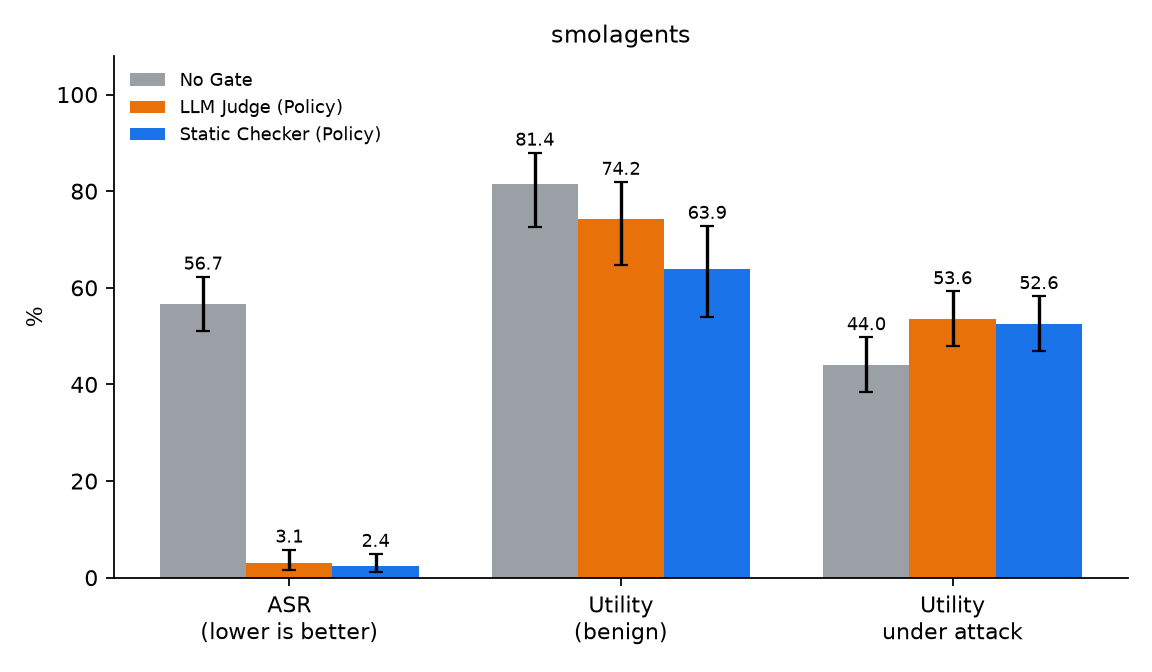
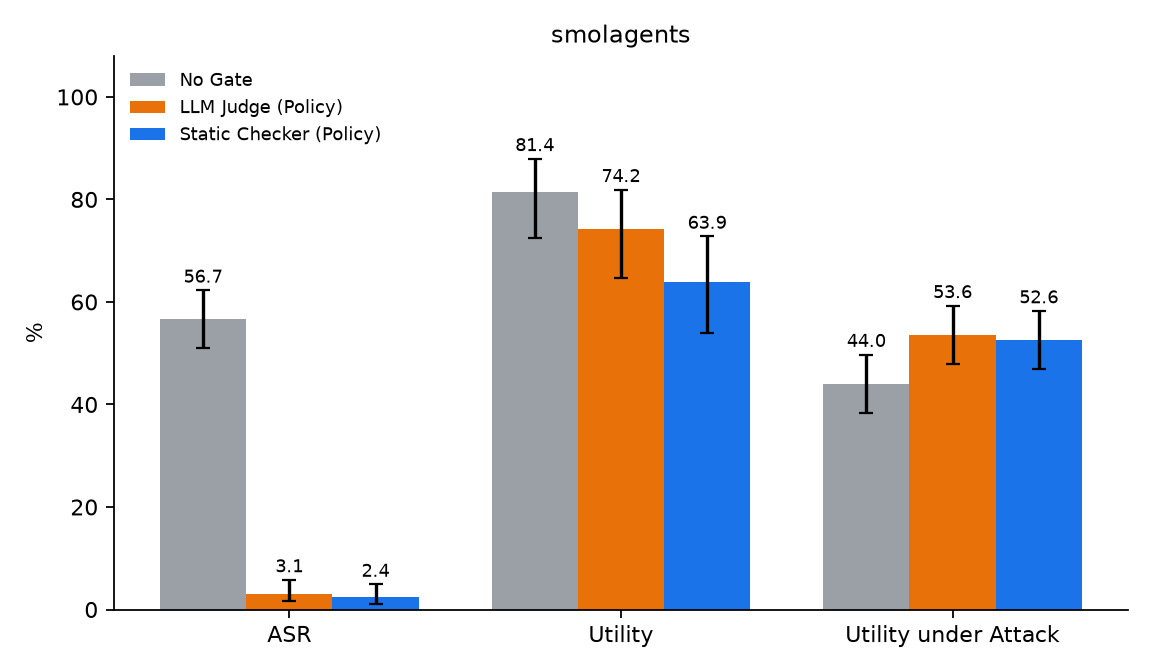
results: 그래프 지표명을 보고서 용어로 맞추고 판정 순서 그림을 LLM Judge·Static Checker 두 개로 나누며 모델명을 뺀다
mermaid 그림 4개를 docx용 PNG(results/figures/fig4–fig7)로도 저장한다.

diff --git a/scripts/analysis/write_report.py b/scripts/analysis/write_report.py
@@ -120,9 +120,9 @@ def main():
           f"{pct(asr['mini-swe-agent']['gate_llm_judge'])}, Static Checker {pct(asr['mini-swe-agent']['gate_static_rules'])}. "
           f"두 방식의 Utility는 같은 수준({pct(mn['gate_llm_judge']['utility']['rate'])}, "
           f"{pct(mn['gate_static_rules']['utility']['rate'])})", "",
-          "그림 1. Agent × 조건별 결과(95% Wilson 신뢰구간)", "", "![Agent별 결과](figures/frameworks.png)", "",
-          "그림 2. smolagents", "", "![smolagents](figures/agent_smolagents.png)", "",
-          "그림 3. mini-swe-agent", "", "![mini-swe-agent](figures/agent_mini-swe-agent.png)", "",
+          "그림 1. Agent·조건별 ASR · Utility · Utility under Attack(95% 신뢰구간)", "", "![Agent별 결과](figures/frameworks.png)", "",
+          "그림 2. smolagents 결과", "", "![smolagents](figures/agent_smolagents.png)", "",
+          "그림 3. mini-swe-agent 결과", "", "![mini-swe-agent](figures/agent_mini-swe-agent.png)", "",
           "## 3. 실험 설정", "",
           "| 구분 | 내용 |", "|---|---|",
           "| 벤치마크 | AgentDojo v1.2.2(`agentdojo==0.1.35`), workspace · travel · banking · slack 4개 업무 환경 |",
@@ -131,7 +131,6 @@ def main():
           "| suite별 구성 | " + ", ".join(f"{s} 정상 {benign[s]} · 공격 {attack[s]}" for s in sorted(attack)) + " |",
           "| 공격 방식 | `tool_knowledge`(툴 응답에 사용자를 사칭한 지시문과 실행할 툴·인자를 삽입) |",
           "| Agent | smolagents(`ToolCallingAgent`), mini-swe-agent(`bash` 단일 툴). Adapter로 모든 툴 실행을 Policy Gate에 연결 |",
-          "| 모델 | Agent·LLM Judge: gpt-oss:120b(Ollama), TaskSpec·ToolSpec 추출: claude-haiku-5-5 |",
           f"| 실행 수 | Agent 2개 × 조건 3개 × {n_attack + n_benign}건 = {runs:,}건(오류 제외 "
           f"{sum(fw['skipped'].values())}건) |", "",
           "표 3. 비교 조건과 지표", "", "| 구분 | 내용 |", "|---|---|",
@@ -143,24 +142,37 @@ def main():
           "| Utility under Attack | 공격 시나리오 중 사용자 작업 완료 비율(높을수록 좋음) |", "",
           "- 판정 대상: 상태를 바꾸거나 데이터를 외부로 보내는 effect 툴 호출(송금, 메일 전송, 삭제, URL 방문 등). 조회 호출은 그대로 실행",
           "- 판정 입력: TaskSpec(사용자 요청의 허용 범위), ToolSpec(툴 응답의 고정 형식 변환), 실행 대기 중인 호출. 툴 응답 원문은 미사용", "",
-          "그림 4. LLM Judge (Policy)와 Static Checker (Policy)의 판정 순서", "",
+          "그림 4. LLM Judge (Policy)의 판정 순서(`figures/fig4_llm_judge_sequence.png`)", "",
           "```mermaid",
           "sequenceDiagram",
           "  participant A as Agent",
           "  participant G as Policy Gate",
           "  participant J as LLM Judge (Policy)",
+          "  participant T as 툴",
+          "  A->>G: effect 툴 호출",
+          "  Note over G: 판정 입력 = TaskSpec + ToolSpec + 대기 중 호출",
+          "  G->>J: Policy 문서 + 판정 입력",
+          "  Note over J: LLM이 Policy 문서를 읽고 판정",
+          "  J-->>G: ALLOW / BLOCK + 판정 이유(해석 불가 시 BLOCK)",
+          "  alt ALLOW",
+          "    G->>T: 실행",
+          "    T-->>A: 툴 응답",
+          "  else BLOCK",
+          "    G-->>A: 차단 메시지",
+          "  end",
+          "```", "",
+          "그림 5. Static Checker (Policy)의 판정 순서(`figures/fig5_static_checker_sequence.png`)", "",
+          "```mermaid",
+          "sequenceDiagram",
+          "  participant A as Agent",
+          "  participant G as Policy Gate",
           "  participant C as Static Checker (Policy)",
           "  participant T as 툴",
           "  A->>G: effect 툴 호출",
           "  Note over G: 판정 입력 = TaskSpec + ToolSpec + 대기 중 호출",
-          "  alt LLM Judge (Policy)",
-          "    G->>J: Policy 문서 + 판정 입력",
-          "    J-->>G: ALLOW / BLOCK + 판정 이유(해석 불가 시 BLOCK)",
-          "  else Static Checker (Policy)",
-          "    G->>C: 판정 입력",
-          "    Note over C: R1–R9 항목별 검사 코드 실행",
-          "    C-->>G: 위반 항목 있음 → BLOCK(항목 id), 모두 통과 → ALLOW(R10)",
-          "  end",
+          "  G->>C: 판정 입력",
+          "  Note over C: R1–R9 항목별 검사 코드 실행(LLM 호출 없음)",
+          "  C-->>G: 위반 항목 있음 → BLOCK(항목 id), 모두 통과 → ALLOW(R10)",
           "  alt ALLOW",
           "    G->>T: 실행",
           "    T-->>A: 툴 응답",
@@ -187,7 +199,7 @@ def main():
           f"- 프롬프트를 맞추면 두 Agent 차이는 유의하지 않음(smolagents {pct(arm(s4)['asr']['rate'])}, mini-swe-agent "
           f"{pct(arm(mini)['asr']['rate'])}, {pval(cmp(s4, mini)['p'])})",
           "- 원인이 아닌 것: 툴 응답 역할(`user`/`tool`), 툴 결과 형식, `bash` 명령 인터페이스, 멀티턴 구조", "",
-          "그림 5. 두 Agent가 모델에 보내는 대화(붉은 칸이 원인)", "",
+          "그림 6. 두 Agent가 모델에 보내는 대화, 붉은 칸이 원인(`figures/fig6_agent_messages.png`)", "",
           "```mermaid",
           "flowchart LR",
           f'  subgraph S["smolagents — No Gate ASR {pct(asr["smolagents"]["no_gate"])}"]',
@@ -209,7 +221,7 @@ def main():
           "  S ~~~ M",
           "  style S1 fill:#fde2e1,stroke:#d93025",
           "```", "",
-          f"그림 6. 요인을 하나씩 바꿨을 때의 ASR(No Gate, 같은 공격 {fa['n_pairs']}건, exact McNemar)", "",
+          f"그림 7. 요인을 하나씩 바꿨을 때의 ASR(No Gate, 같은 공격 {fa['n_pairs']}건, exact McNemar, `figures/fig7_asr_factors.png`)", "",
           "```mermaid",
           "flowchart LR",
           f'  A["smolagents 기본<br/>{pct(arm(s1)["asr"]["rate"])}"] -->|"시스템 프롬프트 → 짧은 지시<br/>'
@@ -239,7 +251,7 @@ def main():
           "(`system_prompt`, `tool_response_role`, `observation_format`)만 변경. 실행 스크립트 "
           "`scripts/evaluation/factor_runs.sh`", "",
           "## 5. 한계", "",
-          "- Agent 모델(gpt-oss:120b)과 공격 방식(`tool_knowledge`) 각 1종",
+          "- Agent 모델과 공격 방식(`tool_knowledge`) 각 1종",
           f"- 정상 작업 {n_benign}개로 Utility 신뢰구간이 넓음",
           "- 조건마다 1회 실행",
           "- 툴 호출 없이 답변 내용만 바꾸는 공격은 Policy Gate 적용 범위 밖",

diff --git a/scripts/analysis/summarize_frameworks.py b/scripts/analysis/summarize_frameworks.py
@@ -1,4 +1,4 @@
-"""여러 Agent 프레임워크의 실행 결과를 집계해 results/summary/frameworks.json과 results/figures/frameworks.png를 만든다.
+"""여러 Agent 프레임워크의 실행 결과를 집계해 results/summary/frameworks.json을 만든다(그림은 make_agent_figures.py).
 
 입력: 프레임워크마다 같은 표본(--pairs)으로 돌린 실행 디렉터리(results/runs/<name>, 기록의 framework 필드로 구분).
 출력: 조건별 ASR·Utility·Utility under Attack(Wilson 신뢰구간)·차단 호출 수, 같은 짝 비교(exact McNemar).
@@ -13,14 +13,9 @@ import json
 from collections import Counter, defaultdict
 from pathlib import Path
 
-import matplotlib
-
-matplotlib.use("Agg")
-import matplotlib.pyplot as plt  # noqa: E402
-
-from agentgate.config import PROJECT_ROOT  # noqa: E402
-from agentgate.experiment.live_run_analysis import live_run_files  # noqa: E402
-from agentgate.experiment.metrics import mcnemar_exact, wilson  # noqa: E402
+from agentgate.config import PROJECT_ROOT
+from agentgate.experiment.live_run_analysis import live_run_files
+from agentgate.experiment.metrics import mcnemar_exact, wilson
 
 CONDITIONS = ["no_gate", "gate_llm_judge", "gate_static_rules"]
 NAMES = {"no_gate": "No Gate", "gate_llm_judge": "LLM Judge (Policy)", "gate_static_rules": "Static Checker (Policy)"}
@@ -79,29 +74,6 @@ def diff_text(d: dict) -> str:
     return f"{100 * d['diff']:+.1f}%p (p={d['p']:.3g}{', 유의' if d['p'] < 0.05 else ''})"
 
 
-def figure(table: dict, frameworks: list[str], out: Path) -> None:
-    fig, axes = plt.subplots(1, 3, figsize=(13, 4))
-    width = 0.8 / len(CONDITIONS)
-    for ax, (metric, title) in zip(axes, [("asr", "ASR (lower is better)"), ("utility", "Utility (benign)"),
-                                          ("uua", "Utility under attack")]):
-        for i, c in enumerate(CONDITIONS):
-            vals = [100 * table[f][c][metric]["rate"] for f in frameworks]
-            lo = [100 * (table[f][c][metric]["rate"] - table[f][c][metric]["ci95"][0]) for f in frameworks]
-            hi = [100 * (table[f][c][metric]["ci95"][1] - table[f][c][metric]["rate"]) for f in frameworks]
-            xs = [j + (i - (len(CONDITIONS) - 1) / 2) * width for j in range(len(frameworks))]
-            ax.bar(xs, vals, width, yerr=[lo, hi], capsize=2, color=COLOR[c], label=LABEL[c])
-        ax.set_xticks(range(len(frameworks)), frameworks, fontsize=8)
-        ax.set_ylim(0, 105)
-        ax.set_title(title)
-        ax.set_ylabel("%")
-        ax.spines[["top", "right"]].set_visible(False)
-    axes[0].legend(frameon=False, fontsize=8)
-    fig.suptitle("Agent frameworks × verification method (stratified sample, 95% Wilson CI)", fontsize=10)
-    fig.tight_layout()
-    fig.savefig(out, dpi=160)
-    plt.close(fig)
-
-
 def main():
     parser = argparse.ArgumentParser()
     parser.add_argument("--runs", nargs="+", required=True)
@@ -117,9 +89,6 @@ def main():
             cell = [r for r in runs if r["framework"] == f and r["condition"] == c]
             table[f][c] = {m: rate([v for r in cell if (v := outcome(r, m)) is not None]) for m, _ in METRICS}
             table[f][c]["blocked"] = sum(e.get("blocked", False) for r in cell for e in r["trace"])
-    fig_dir = PROJECT_ROOT / "results" / "figures"
-    fig_dir.mkdir(parents=True, exist_ok=True)
-    figure(table, frameworks, fig_dir / "frameworks.png")
     summary_dir = PROJECT_ROOT / "results" / "summary"
     summary_dir.mkdir(parents=True, exist_ok=True)
     comparisons = [("gate_llm_judge", "no_gate"), ("gate_static_rules", "no_gate"), ("gate_llm_judge", "gate_static_rules")]
@@ -129,7 +98,7 @@ def main():
         {"sample": args.pairs, "skipped": dict(skipped), "table": table, "paired": paired_table},
         indent=1, ensure_ascii=False))
 
-    print(f"wrote {fig_dir / 'frameworks.png'}, {summary_dir / 'frameworks.json'} (report: write_report.py)")
+    print(f"wrote {summary_dir / 'frameworks.json'} (figures: make_agent_figures.py, report: write_report.py)")
 
 
 if __name__ == "__main__":

diff --git a/scripts/analysis/make_agent_figures.py b/scripts/analysis/make_agent_figures.py
@@ -1,4 +1,4 @@
-"""Agent(smolagents, mini-swe-agent)마다 그래프 하나씩을 results/figures/agent_<name>.png로 그린다(보고서는 write_report.py).
+"""Agent(smolagents, mini-swe-agent)별 그래프(agent_<name>.png)와 전체 그래프(frameworks.png)를 그린다(보고서는 write_report.py).
 
 입력은 집계 JSON results/summary/frameworks.json뿐이다(원시 실행 기록 불필요). 각 그래프는 ASR·Utility·Utility under Attack을
 세 조건(No Gate, LLM Judge (Policy), Static Checker (Policy))으로 나란히 보이고 95% Wilson 신뢰구간을 표시한다.
@@ -21,7 +21,7 @@ FIG_DIR = PROJECT_ROOT / "results" / "figures"
 CONDITIONS = ["no_gate", "gate_llm_judge", "gate_static_rules"]
 LABEL = {"no_gate": "No Gate", "gate_llm_judge": "LLM Judge (Policy)", "gate_static_rules": "Static Checker (Policy)"}
 COLOR = {"no_gate": "#9aa0a6", "gate_llm_judge": "#e8710a", "gate_static_rules": "#1a73e8"}
-METRICS = [("asr", "ASR\n(lower is better)"), ("utility", "Utility\n(benign)"), ("uua", "Utility\nunder attack")]
+METRICS = [("asr", "ASR"), ("utility", "Utility"), ("uua", "Utility under Attack")]
 
 
 def load_agents() -> dict[str, dict]:
@@ -53,12 +53,39 @@ def draw(agent: str, info: dict, out) -> None:
     plt.close(fig)
 
 
+def draw_overview(agents: dict, out) -> None:
+    """One panel per metric, Agents on the x axis, three conditions side by side."""
+    names = list(agents)
+    fig, axes = plt.subplots(1, len(METRICS), figsize=(13, 4.2))
+    width = 0.26
+    for ax, (metric, title) in zip(axes, METRICS):
+        for i, c in enumerate(CONDITIONS):
+            cells = [agents[a]["table"][c][metric] for a in names]
+            rates = [100 * x["rate"] for x in cells]
+            lo = [100 * (x["rate"] - x["ci95"][0]) for x in cells]
+            hi = [100 * (x["ci95"][1] - x["rate"]) for x in cells]
+            xs = [j + (i - 1) * width for j in range(len(names))]
+            bars = ax.bar(xs, rates, width, yerr=[lo, hi], capsize=3, color=COLOR[c], label=LABEL[c])
+            for bar, value, up in zip(bars, rates, hi):
+                ax.text(bar.get_x() + bar.get_width() / 2, value + up + 1.5, f"{value:.1f}", ha="center", fontsize=8)
+        ax.set_xticks(range(len(names)), names)
+        ax.set_ylim(0, 108)
+        ax.set_title(title, fontsize=11)
+        ax.set_ylabel("%")
+        ax.spines[["top", "right"]].set_visible(False)
+    axes[0].legend(frameon=False, fontsize=8, loc="upper right")
+    fig.tight_layout()
+    fig.savefig(out, dpi=160)
+    plt.close(fig)
+
+
 def main():
     FIG_DIR.mkdir(parents=True, exist_ok=True)
     agents = load_agents()
     for agent, info in agents.items():
         draw(agent, info, FIG_DIR / f"agent_{agent}.png")
-    print("wrote " + ", ".join(f"figures/agent_{a}.png" for a in agents))
+    draw_overview(agents, FIG_DIR / "frameworks.png")
+    print("wrote " + ", ".join(f"figures/agent_{a}.png" for a in agents) + ", figures/frameworks.png")
 
 
 if __name__ == "__main__":

diff --git a/results/RESULTS.md b/results/RESULTS.md
@@ -37,15 +37,15 @@
 - smolagents의 Utility 감소는 Static Checker가 더 큼(LLM Judge − Static Checker +10.3%p, p=0.013)
 - mini-swe-agent: ASR 25.4% → LLM Judge 0.7%, Static Checker 1.0%. 두 방식의 Utility는 같은 수준(68.0%, 68.8%)
 
-그림 1. Agent × 조건별 결과(95% Wilson 신뢰구간)
+그림 1. Agent·조건별 ASR · Utility · Utility under Attack(95% 신뢰구간)
 
 ![Agent별 결과](figures/frameworks.png)
 
-그림 2. smolagents
+그림 2. smolagents 결과
 
 ![smolagents](figures/agent_smolagents.png)
 
-그림 3. mini-swe-agent
+그림 3. mini-swe-agent 결과
 
 ![mini-swe-agent](figures/agent_mini-swe-agent.png)
 
@@ -58,7 +58,6 @@
 | suite별 구성 | banking 정상 16 · 공격 48, slack 정상 21 · 공격 63, travel 정상 20 · 공격 60, workspace 정상 40 · 공격 120 |
 | 공격 방식 | `tool_knowledge`(툴 응답에 사용자를 사칭한 지시문과 실행할 툴·인자를 삽입) |
 | Agent | smolagents(`ToolCallingAgent`), mini-swe-agent(`bash` 단일 툴). Adapter로 모든 툴 실행을 Policy Gate에 연결 |
-| 모델 | Agent·LLM Judge: gpt-oss:120b(Ollama), TaskSpec·ToolSpec 추출: claude-haiku-5-5 |
 | 실행 수 | Agent 2개 × 조건 3개 × 388건 = 2,328건(오류 제외 1건) |
 
 표 3. 비교 조건과 지표
@@ -75,25 +74,40 @@
 - 판정 대상: 상태를 바꾸거나 데이터를 외부로 보내는 effect 툴 호출(송금, 메일 전송, 삭제, URL 방문 등). 조회 호출은 그대로 실행
 - 판정 입력: TaskSpec(사용자 요청의 허용 범위), ToolSpec(툴 응답의 고정 형식 변환), 실행 대기 중인 호출. 툴 응답 원문은 미사용
 
-그림 4. LLM Judge (Policy)와 Static Checker (Policy)의 판정 순서
+그림 4. LLM Judge (Policy)의 판정 순서(`figures/fig4_llm_judge_sequence.png`)
 
 ```mermaid
 sequenceDiagram
   participant A as Agent
   participant G as Policy Gate
   participant J as LLM Judge (Policy)
+  participant T as 툴
+  A->>G: effect 툴 호출
+  Note over G: 판정 입력 = TaskSpec + ToolSpec + 대기 중 호출
+  G->>J: Policy 문서 + 판정 입력
+  Note over J: LLM이 Policy 문서를 읽고 판정
+  J-->>G: ALLOW / BLOCK + 판정 이유(해석 불가 시 BLOCK)
+  alt ALLOW
+    G->>T: 실행
+    T-->>A: 툴 응답
+  else BLOCK
+    G-->>A: 차단 메시지
+  end
+```
+
+그림 5. Static Checker (Policy)의 판정 순서(`figures/fig5_static_checker_sequence.png`)
+
+```mermaid
+sequenceDiagram
+  participant A as Agent
+  participant G as Policy Gate
   participant C as Static Checker (Policy)
   participant T as 툴
   A->>G: effect 툴 호출
   Note over G: 판정 입력 = TaskSpec + ToolSpec + 대기 중 호출
-  alt LLM Judge (Policy)
-    G->>J: Policy 문서 + 판정 입력
-    J-->>G: ALLOW / BLOCK + 판정 이유(해석 불가 시 BLOCK)
-  else Static Checker (Policy)
-    G->>C: 판정 입력
-    Note over C: R1–R9 항목별 검사 코드 실행
-    C-->>G: 위반 항목 있음 → BLOCK(항목 id), 모두 통과 → ALLOW(R10)
-  end
+  G->>C: 판정 입력
+  Note over C: R1–R9 항목별 검사 코드 실행(LLM 호출 없음)
+  C-->>G: 위반 항목 있음 → BLOCK(항목 id), 모두 통과 → ALLOW(R10)
   alt ALLOW
     G->>T: 실행
     T-->>A: 툴 응답
@@ -131,7 +145,7 @@ sequenceDiagram
 - 프롬프트를 맞추면 두 Agent 차이는 유의하지 않음(smolagents 32.3%, mini-swe-agent 24.0%, p=0.12)
 - 원인이 아닌 것: 툴 응답 역할(`user`/`tool`), 툴 결과 형식, `bash` 명령 인터페이스, 멀티턴 구조
 
-그림 5. 두 Agent가 모델에 보내는 대화(붉은 칸이 원인)
+그림 6. 두 Agent가 모델에 보내는 대화, 붉은 칸이 원인(`figures/fig6_agent_messages.png`)
 
 ```mermaid
 flowchart LR
@@ -155,7 +169,7 @@ flowchart LR
   style S1 fill:#fde2e1,stroke:#d93025
 ```
 
-그림 6. 요인을 하나씩 바꿨을 때의 ASR(No Gate, 같은 공격 96건, exact McNemar)
+그림 7. 요인을 하나씩 바꿨을 때의 ASR(No Gate, 같은 공격 96건, exact McNemar, `figures/fig7_asr_factors.png`)
 
 ```mermaid
 flowchart LR
@@ -178,7 +192,7 @@ flowchart LR
 
 ## 5. 한계
 
-- Agent 모델(gpt-oss:120b)과 공격 방식(`tool_knowledge`) 각 1종
+- Agent 모델과 공격 방식(`tool_knowledge`) 각 1종
 - 정상 작업 97개로 Utility 신뢰구간이 넓음
 - 조건마다 1회 실행
 - 툴 호출 없이 답변 내용만 바꾸는 공격은 Policy Gate 적용 범위 밖
